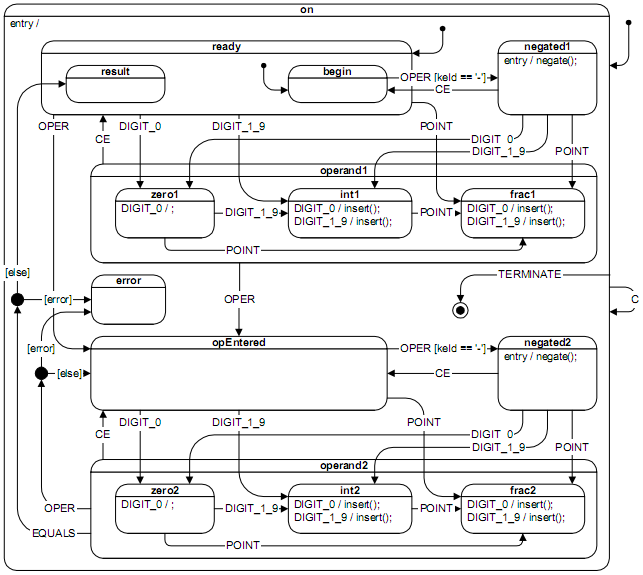
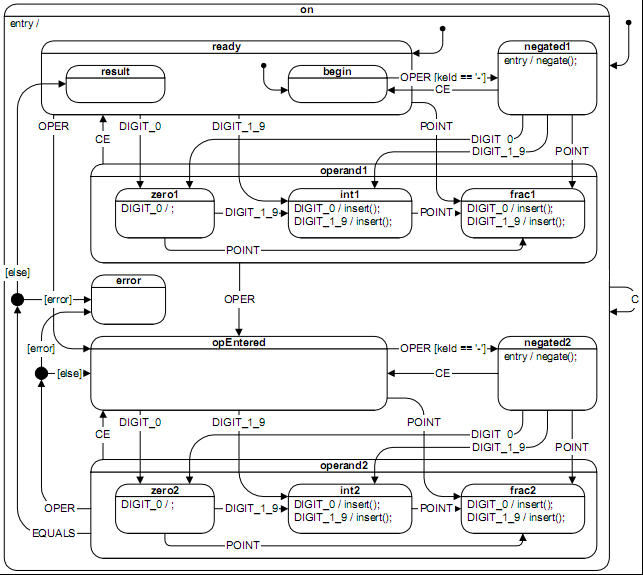
* added error checking to calc state machines * removed final TERMINATE state from calc state chart

Changed region(s): [[0.9953, 0.0, 1.0, 1.0], [0.7776, 0.4435, 0.9331, 0.5026], [0.6843, 0.473, 0.7465, 0.5617]]

diff --git a/simplehsm_python/calc_hsm.py b/simplehsm_python/calc_hsm.py
@@ -252,25 +252,33 @@ class CalcHsm(SimpleHsm):
             self.TransitionState(self.opEntered)
             return None
         elif state_event.sig == SIG_OPERATOR:
-            self._operand1 = self.Update(self._operand1, float(self.entry.get()), self._operator)
-            self._operator = state_event.key
-            self.entry.delete(0, END)
-            val = str(self._operand1)
-            if val[-2:] == ".0":
-                val = val[0:-2]
-            self.entry.insert(END, val)
-            self.TransitionState(self.opEntered)
-            #TODO on error TransitionState(error)
+            try:
+                self._operand1 = self.Update(self._operand1, float(self.entry.get()), self._operator)
+                self._operator = state_event.key
+                self.entry.delete(0, END)
+                val = str(self._operand1)
+                if val[-2:] == ".0":
+                    val = val[0:-2]
+                self.entry.insert(END, val)
+                self.TransitionState(self.opEntered)
+            except:
+                self.entry.delete(0, END)
+                self.entry.insert(END, "ERROR")
+                self.TransitionState(self.error)
             return None
         elif state_event.sig == SIG_EQUALS:
-            self._operand1 = self.Update(self._operand1, float(self.entry.get()), self._operator)
-            self.entry.delete(0, END)
-            val = str(self._operand1)
-            if val[-2:] == ".0":
-                val = val[0:-2]
-            self.entry.insert(END, val)
-            self.TransitionState(self.result)
-            #TODO on error TransitionState(error);
+            try:
+                self._operand1 = self.Update(self._operand1, float(self.entry.get()), self._operator)
+                self.entry.delete(0, END)
+                val = str(self._operand1)
+                if val[-2:] == ".0":
+                    val = val[0:-2]
+                self.entry.insert(END, val)
+                self.TransitionState(self.result)
+            except:
+                self.entry.delete(0, END)
+                self.entry.insert(END, "ERROR")
+                self.TransitionState(self.error)
             return None
         return self.on
 

diff --git a/simplehsm_csharp/Calc/CalcHsm.cs b/simplehsm_csharp/Calc/CalcHsm.cs
@@ -4,13 +4,6 @@ using System.Text;
 using System.Windows.Forms;
 using SimpleHsm;
 
-/* TODO
- * 
- * - handle errors
- * - delete terminate signal from calc.png chart?
- * 
- */
-
 namespace Calc
 {
     //
@@ -345,17 +338,31 @@ namespace Calc
                     TransitionState(opEntered);
                     return null;
                 case (Signal)CalcSignal.Operator:
-                    _operand1 = Update(_operand1, Convert.ToDouble(textBox.Text), _operator);
-                    _operator = ((CalcEvent)e).Key;
-                    textBox.Text = _operand1.ToString();
-                    TransitionState(opEntered);
-                    //TODO on error TransitionState(error);
+                    try
+                    {
+                        _operand1 = Update(_operand1, Convert.ToDouble(textBox.Text), _operator);
+                        _operator = ((CalcEvent)e).Key;
+                        textBox.Text = _operand1.ToString();
+                        TransitionState(opEntered);
+                    }
+                    catch
+                    {
+                        textBox.Text = "ERROR";
+                        TransitionState(error);
+                    }
                     return null;
                 case (Signal)CalcSignal.Equals:
-                    _operand1 = Update(_operand1, Convert.ToDouble(textBox.Text), _operator);
-                    textBox.Text = _operand1.ToString();
-                    TransitionState(result);
-                    //TODO on error TransitionState(error);
+                    try
+                    {
+                        _operand1 = Update(_operand1, Convert.ToDouble(textBox.Text), _operator);
+                        textBox.Text = _operand1.ToString();
+                        TransitionState(result);
+                    }
+                    catch
+                    {
+                        textBox.Text = "ERROR";
+                        TransitionState(error);
+                    }
                     return null;
             }
             return on;
